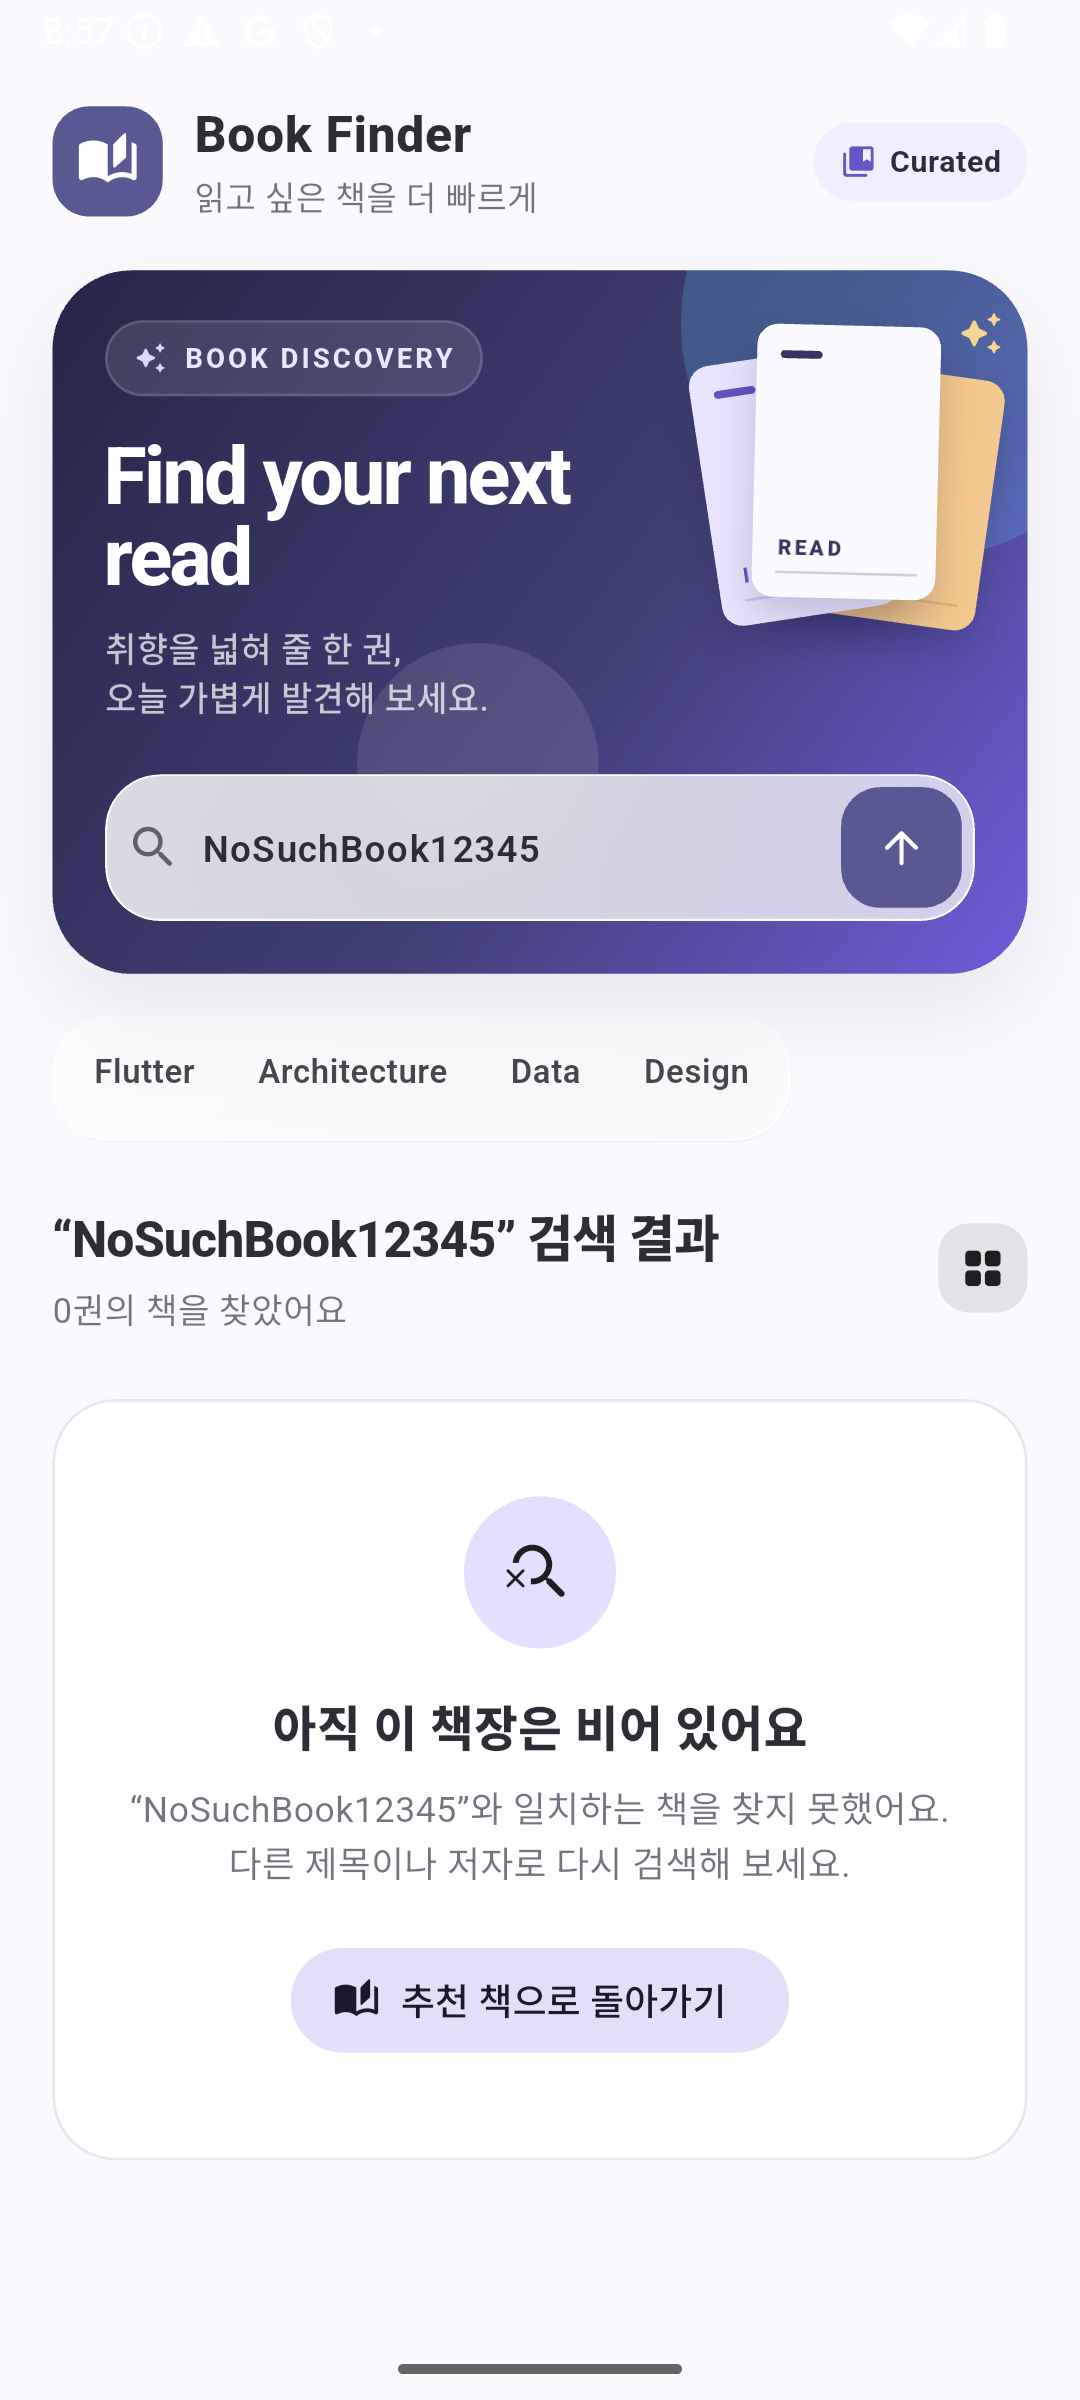
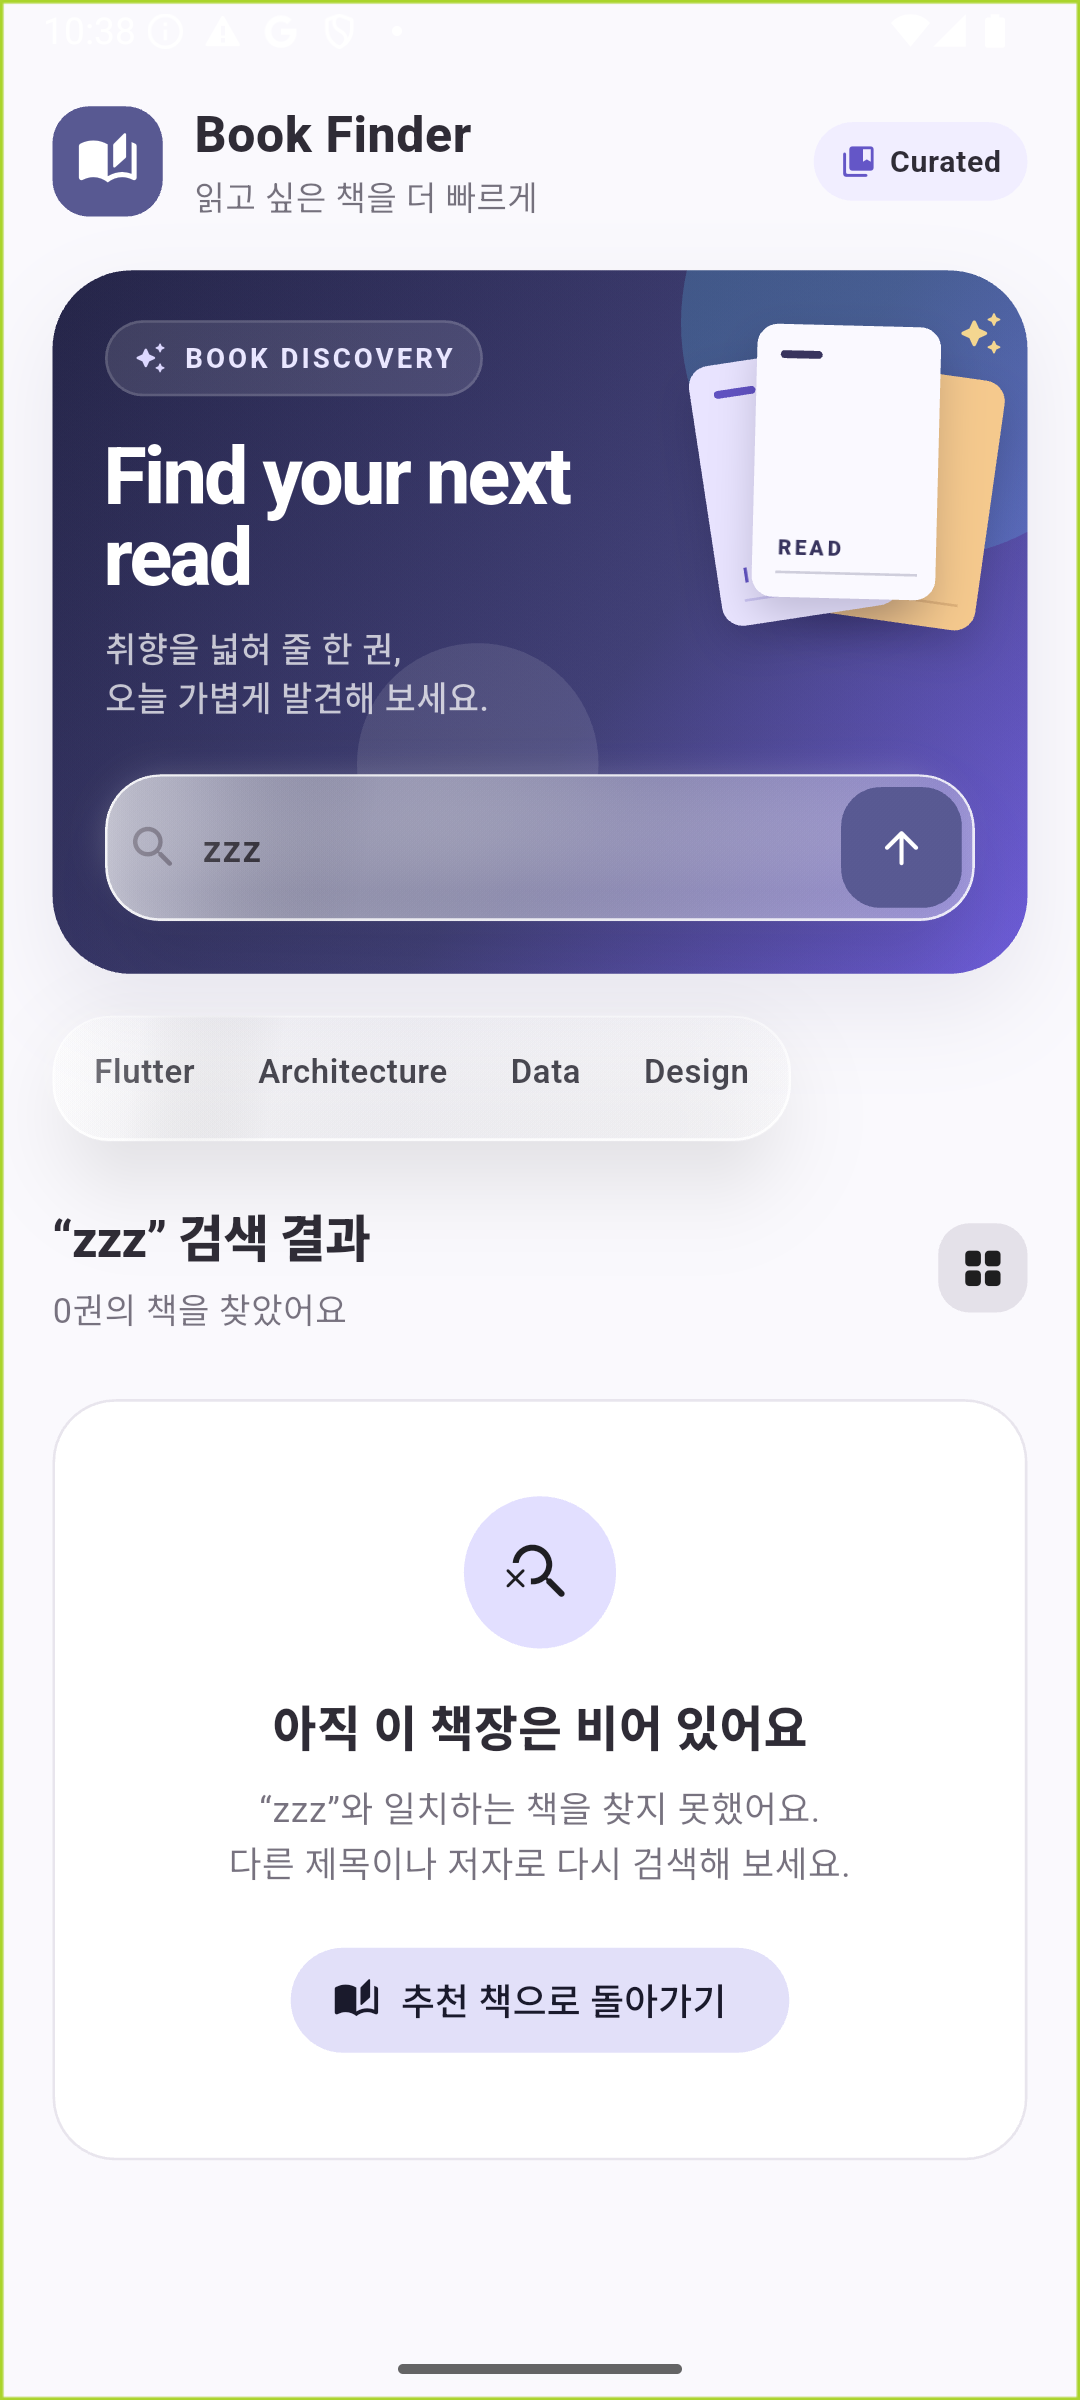
Strengthen Book Finder liquid glass controls

diff --git a/lib/v2/v2_glass.dart b/lib/v2/v2_glass.dart
@@ -66,44 +66,93 @@ class AppGlassSurface extends StatelessWidget {
   Widget build(BuildContext context) {
     final media = MediaQuery.maybeOf(context);
     final highContrast = media?.highContrast ?? false;
-    final dark = Theme.of(context).brightness == Brightness.dark;
+    final theme = Theme.of(context);
+    final dark = theme.brightness == Brightness.dark;
     final base = tint ?? (dark ? const Color(0xFF24252B) : Colors.white);
-    final alpha = highContrast ? .96 : (dark ? .68 : .72);
-    final decorated = DecoratedBox(
+    final accent = Color.lerp(base, theme.colorScheme.primary, dark ? .16 : .10)!;
+    final topAlpha = highContrast ? .98 : (dark ? .60 : .48);
+    final middleAlpha = highContrast ? .96 : (dark ? .50 : .36);
+    final bottomAlpha = highContrast ? .94 : (dark ? .42 : .28);
+
+    final body = Stack(
+      fit: StackFit.passthrough,
+      children: [
+        DecoratedBox(
+          decoration: BoxDecoration(
+            borderRadius: borderRadius,
+            gradient: LinearGradient(
+              begin: Alignment.topLeft,
+              end: Alignment.bottomRight,
+              stops: const [0, .48, 1],
+              colors: [
+                base.withValues(alpha: topAlpha),
+                accent.withValues(alpha: middleAlpha),
+                base.withValues(alpha: bottomAlpha),
+              ],
+            ),
+            border: Border.all(
+              color: dark
+                  ? Colors.white.withValues(alpha: highContrast ? .34 : .28)
+                  : Colors.white.withValues(alpha: highContrast ? .96 : .80),
+              width: 1,
+            ),
+          ),
+          child: Padding(padding: padding, child: child),
+        ),
+        Positioned.fill(
+          child: IgnorePointer(
+            child: DecoratedBox(
+              decoration: BoxDecoration(
+                borderRadius: borderRadius,
+                gradient: LinearGradient(
+                  begin: Alignment.topLeft,
+                  end: Alignment.center,
+                  stops: const [0, .24, .62],
+                  colors: [
+                    Colors.white.withValues(alpha: dark ? .16 : .36),
+                    Colors.white.withValues(alpha: dark ? .05 : .11),
+                    Colors.transparent,
+                  ],
+                ),
+              ),
+            ),
+          ),
+        ),
+      ],
+    );
+
+    final clipped = ClipRRect(
+      borderRadius: borderRadius,
+      child: highContrast || blurSigma <= 0
+          ? body
+          : BackdropFilter(
+              filter: ImageFilter.blur(
+                sigmaX: blurSigma + 4,
+                sigmaY: blurSigma + 4,
+              ),
+              child: body,
+            ),
+    );
+
+    return DecoratedBox(
       decoration: BoxDecoration(
         borderRadius: borderRadius,
-        gradient: LinearGradient(
-          begin: Alignment.topLeft,
-          end: Alignment.bottomRight,
-          colors: [
-            base.withValues(alpha: (alpha + .10).clamp(0, 1)),
-            base.withValues(alpha: alpha),
-          ],
-        ),
-        border: Border.all(
-          color: dark
-              ? Colors.white.withValues(alpha: .16)
-              : Colors.white.withValues(alpha: .9),
-          width: .8,
-        ),
         boxShadow: [
           BoxShadow(
-            color: Colors.black.withValues(alpha: dark ? .20 : .08),
-            blurRadius: 24,
-            offset: const Offset(0, 11),
+            color: Colors.black.withValues(alpha: dark ? .28 : .13),
+            blurRadius: 32,
+            spreadRadius: -4,
+            offset: const Offset(0, 14),
+          ),
+          BoxShadow(
+            color: Colors.white.withValues(alpha: dark ? .04 : .20),
+            blurRadius: 10,
+            spreadRadius: -5,
+            offset: const Offset(-4, -4),
           ),
         ],
       ),
-      child: Padding(padding: padding, child: child),
-    );
-    return ClipRRect(
-      borderRadius: borderRadius,
-      child: highContrast || blurSigma <= 0
-          ? decorated
-          : BackdropFilter(
-              filter: ImageFilter.blur(sigmaX: blurSigma, sigmaY: blurSigma),
-              child: decorated,
-            ),
+      child: clipped,
     );
   }
 }
